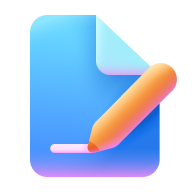
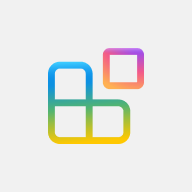
Fix conversion skill and pilot: assets, screenshot, descriptions (#160)
Skill (.github/skills/agent-instruction-to-da-sample/SKILL.md):
- Treat da-WritingCoach as a structure/config reference only; forbid copying
  its branded color.png/outline.png/screenshot/descriptions/instructions.
- Use the default Microsoft 365 Agents Toolkit icons (copied from a known
  default-icon sample), with md5 checks to reject WritingCoach-branded icons.
- Download the source agent-instruction's real screenshot from its
  sample.json thumbnails URL; only fall back to the pending-image placeholder
  when the source has none. Never reuse another sample's screenshot.
- Reuse the source sample.json as authoritative metadata (title, short and
  long descriptions, authors, thumbnails) and keep shortDescription identical
  across manifest, loc, sample.json and the README; document Teams length
  limits (name.short 30, description.short 80, description.full 4000).
- Add pre-PR checks for branded-asset leakage and description consistency.

Pilot (samples/da-socratic-tutor):
- Replace WritingCoach-branded icons with the toolkit default icons.
- Replace the placeholder screenshot with the source's real demo screenshot.
- Align short/long descriptions to the source and make them consistent across
  manifest, localization, sample.json and the README; drop the placeholder note.
- Update the root README row and samples.json shortDescription to match.

Claude-Session: https://claude.ai/code/session_01E5gjaJvJMdHGhX38PZJXKL

diff --git a/.github/skills/agent-instruction-to-da-sample/SKILL.md b/.github/skills/agent-instruction-to-da-sample/SKILL.md
@@ -7,7 +7,7 @@ description: Convert an agent instruction from the pnp/copilot-prompts repo into
 
 Convert an `agent-instruction` contribution from [pnp/copilot-prompts](https://github.com/pnp/copilot-prompts) (a paste-only system prompt) into a complete, compliant declarative agent sample (`da-*` folder) in this repo. Implements [issue #160](https://github.com/pnp/copilot-pro-dev-samples/issues/160).
 
-Use `samples/da-WritingCoach/` as the structural reference and `templates/da-declarative-agent/` as the formal template. One sample = one PR (see `CONTRIBUTING.md`).
+`samples/da-WritingCoach/` is the reference for **file structure and config only** — `manifest.json`, `declarativeAgent.json`, `teamsapp.yml`, `.vscode/`, `env/`, `.gitignore`. **Never copy its content-specific assets** (`color.png`, `outline.png`, screenshots, descriptions, instructions) — those are WritingCoach's brand, not generic. Every content artifact must come from the source agent-instruction or the rules below. One sample = one PR (see `CONTRIBUTING.md`).
 
 ## Inputs
 
@@ -16,96 +16,122 @@ Use `samples/da-WritingCoach/` as the structural reference and `templates/da-dec
 
 ## Workflow
 
-### 1. Resolve the source
+### 1. Resolve the source (download raw, do not summarize)
 
-Fetch BOTH of these raw files from the source folder (do not rely on a rendered/summarized view — always pull the raw bytes so nothing is truncated):
+Download these raw files to disk and read them directly. Do NOT use a small-model "fetch & summarize" tool — it truncates instructions and drops metadata.
 
-1. `https://raw.githubusercontent.com/pnp/copilot-prompts/main/samples/agent-instructions/<name>/readme.md`
-2. `https://raw.githubusercontent.com/pnp/copilot-prompts/main/samples/agent-instructions/<name>/assets/sample.json` (may not exist for every agent — if 404, skip and fall back to parsing the readme)
+```bash
+base=https://raw.githubusercontent.com/pnp/copilot-prompts/main/samples/agent-instructions/<name>
+curl -fsSL "$base/readme.md"          -o source-readme.md
+curl -fsSL "$base/assets/sample.json" -o source-sample.json   # may 404 — then fall back to the readme
+```
 
-> Do NOT use a small-model "fetch and summarize" tool to read the instruction or the authors. Download the raw file to disk (e.g. `curl -fsSL <url> -o source.md`) and read it directly, so the full text and exact metadata are preserved.
+The source `assets/sample.json` is **authoritative metadata** — reuse it rather than inventing values. It provides:
 
-Extract:
+- `title`
+- `shortDescription` (one concise line)
+- `longDescription` (array of fuller paragraphs)
+- `thumbnails[].url` — the source **screenshot** image (download it; see step 3 "Screenshot")
+- `authors` — copy **verbatim** (`gitHubAccount`, `name`, exact `pictureUrl` — e.g. `https://avatars.githubusercontent.com/syam1977`; never rewrite the URL)
+- `references`
 
-- **Title** (e.g. "Socratic Tutor Agent")
-- **Summary / description**
-- The **complete Instructions system prompt** — the ENTIRE content of the fenced code block under the `## Instructions` / `## Prompt` heading. See step 3 for the verbatim-copy rule.
-- **Conversation starters** (often absent — author them in step 4)
-- **Author(s)** — take the `authors` array **verbatim** from the source `assets/sample.json` when present (preserve each object's `gitHubAccount`, `name`, and the exact `pictureUrl` as written, e.g. `https://avatars.githubusercontent.com/syam1977` — do NOT rewrite or reconstruct the URL). Only if there is no source `sample.json`, parse names/handles from the readme `## Authors` section.
+From `readme.md` extract the **complete Instructions system prompt** — the entire fenced code block under `## Instructions` / `## Prompt`. See the verbatim rule in step 3.
 
-### 2. Scaffold the folder
+If there is no source `sample.json`, derive `title`/descriptions from the readme and authors from its `## Authors` section.
 
-Create `samples/da-<name>/` mirroring `samples/da-WritingCoach/`. Copy these files unchanged (they are identical across `da-` samples):
+### 2. Scaffold the folder (config files only)
+
+Create `samples/da-<name>/` and copy ONLY these from `samples/da-WritingCoach/` (they are generic config, identical across `da-` samples):
 
 - `.gitignore`
 - `.vscode/extensions.json`, `.vscode/launch.json`, `.vscode/settings.json`
 - `env/.env.dev`
-- `appPackage/color.png`, `appPackage/outline.png` (generic icons — flag as TODO for the author to brand)
 
-### 3. Map source fields → target files
+Do **not** copy `appPackage/color.png`, `appPackage/outline.png`, `assets/*.png`, `README.md`, `appPackage/instruction.txt`, or any localization values from WritingCoach. Those are handled below.
 
-| Source field | Target |
-|---|---|
-| Instruction prompt (full) | `appPackage/instruction.txt` (COMPLETE, verbatim — see rule below) |
-| Title | `manifest.json` `name.short`/`name.full`; `loc/manifest.en-US.json` `name.*` + `agentName`; README title; `sample.json` `title` |
-| Summary | `manifest.json` `description.short`/`full`; `loc` `description.*` + `agentDescription`; `sample.json` `shortDescription`/`longDescription` |
-| Conversation starters | `loc/manifest.en-US.json` `agentCSTitle1..6` / `agentCSText1..6` |
-| `authors` (from source `sample.json`) | README **Contributors**; `sample.json` `authors[]` (copied verbatim) |
+### 3. Create the content files
 
-**Verbatim instruction rule (critical):** `appPackage/instruction.txt` must contain the **entire** system prompt — every line of the fenced code block, from the first line to the last, including all headings, numbered lists, sub-bullets, example interactions, and edge-case sections. Do NOT summarize, paraphrase, truncate, drop sections, collapse whitespace, or stop early. The only permitted change is removing the surrounding ```` ``` ```` fence markers themselves. After writing the file, **verify completeness**: the first and last non-fence lines of `instruction.txt` must match the first and last lines inside the source code block, and the line count must equal the number of lines between the fences. If they differ, re-extract.
+**Verbatim instruction rule (critical):** `appPackage/instruction.txt` must contain the **entire** system prompt — every line of the fenced code block, first to last, including all headings, numbered lists, sub-bullets, example interactions, and edge-case sections. Do NOT summarize, paraphrase, truncate, drop sections, collapse whitespace, or stop early. The only permitted change is removing the surrounding ```` ``` ```` fence markers. After writing, **verify completeness**: the first and last lines of `instruction.txt` match the first and last lines inside the source block, and the line count equals the number of lines between the fences. If not, re-extract.
 
-Create these files (copy shapes from `da-WritingCoach`):
+**Description consistency rule (critical):** derive every description from the source's `shortDescription` + `longDescription` so they stay consistent (no mismatched/contradictory short vs long). Respect Teams manifest length limits — trim, don't invent a different topic:
 
-- **`appPackage/instruction.txt`** — the complete, verbatim prompt (see rule above).
-- **`appPackage/declarativeAgent.json`** — `$schema` + `version` `v1.2`; `name`/`description` as `[[agentName]]`/`[[agentDescription]]`; `"instructions": "$[file('instruction.txt')]"`; six tokenized `conversation_starters`; minimal `capabilities` (omit, or use `WebSearch` when no tenant data source is needed; use `OneDriveAndSharePoint` / `GraphConnectors` only if the instructions rely on tenant content).
-- **`appPackage/manifest.json`** — Teams `manifestVersion` `1.19`; `id` `${{TEAMS_APP_ID}}`; `name`/`description` filled; `localizationInfo.defaultLanguageFile` = `loc/manifest.en-US.json` (English-only to start; add `additionalLanguages` only if you ship more locale files); `copilotAgents.declarativeAgents` → `declarativeAgent.json`.
-- **`appPackage/loc/manifest.en-US.json`** — real values for every `[[token]]` via `localizationKeys`.
-- **`teamsapp.yml`** — copy from `da-WritingCoach`; set `additionalMetadata.sampleTag: pnp-copilot-pro-dev:da-<name>` and the app `name:`. **Do not commit a `projectId`** (it is generated on provision).
-- **`README.md`** — base on `templates/da-declarative-agent/README-template.md`; replace every `YOUR_AGENT_FOLDER` with `da-<name>` (including the tracking image). Fill Summary, Contributors, Version history (today's date), Prerequisites, Minimal path to awesome, Features. Tracking image (markdown form): `![](https://m365-visitor-stats.azurewebsites.net/copilot-pro-dev-samples/samples/da-<name>)`.
-- **`assets/sample.json`** — base on `templates/da-declarative-agent/assets/template-sample.json`; `name` = `pnp-copilot-pro-dev-da-<name>`; correct `url`/`downloadUrl`; `products` `["Microsoft 365 Copilot"]`; `metadata` PLATFORM/LANGUAGE + `API-PLUGIN`/`GRAPH-CONNECTOR` (`No` for instruction-only); today's `creationDateTime`/`updateDateTime`; a `thumbnails[0].url` pointing at the screenshot; and the **`authors` array copied verbatim from the source `assets/sample.json`** — keep every field intact, e.g.:
+| Field | Source | Max length |
+|---|---|---|
+| `name.short` / `name.full` | friendly agent name (drop the word "Agent") | 30 / 100 |
+| `description.short` (manifest + loc + `sample.json` `shortDescription`) | source `shortDescription` | 80 |
+| `description.full` (manifest + loc) and `sample.json` `longDescription` | source `longDescription` (join paragraphs) | 4000 |
+
+The same `shortDescription` text must appear in `manifest.json`, `loc/manifest.en-US.json`, the root README table, and `sample.json`. The `longDescription`/`description.full` and the README Summary must be the **same subject** as the short one.
+
+Files to create (copy only the JSON/yaml *shape* from `da-WritingCoach`):
+
+- **`appPackage/instruction.txt`** — the complete, verbatim prompt.
+- **`appPackage/declarativeAgent.json`** — `$schema` + `version` `v1.2`; `name`/`description` as `[[agentName]]`/`[[agentDescription]]`; `"instructions": "$[file('instruction.txt')]"`; tokenized `conversation_starters`; minimal `capabilities` (`WebSearch` when no tenant data is needed; `OneDriveAndSharePoint`/`GraphConnectors` only if the instructions rely on tenant content).
+- **`appPackage/manifest.json`** — Teams `manifestVersion` `1.19`; `id` `${{TEAMS_APP_ID}}`; `name`/`description` per the table above; `localizationInfo.defaultLanguageFile` = `loc/manifest.en-US.json` (English-only to start); `copilotAgents.declarativeAgents` → `declarativeAgent.json`.
+- **`appPackage/loc/manifest.en-US.json`** — real values for every `[[token]]` via `localizationKeys` (`agentName`, `agentDescription`, `agentCSTitle1..N`/`agentCSText1..N`).
+- **`teamsapp.yml`** — set `additionalMetadata.sampleTag: pnp-copilot-pro-dev:da-<name>` and the app `name:`. **No `projectId`** (generated on provision).
+- **`README.md`** — base on `templates/da-declarative-agent/README-template.md`; replace every `YOUR_AGENT_FOLDER` with `da-<name>` (including the tracking image). Fill Summary (from `longDescription`), Contributors, Version history (today's date), Prerequisites, Minimal path to awesome, Features. Tracking image: `![](https://m365-visitor-stats.azurewebsites.net/copilot-pro-dev-samples/samples/da-<name>)`.
+- **`assets/sample.json`** — from `templates/da-declarative-agent/assets/template-sample.json`; `name` = `pnp-copilot-pro-dev-da-<name>`; correct `url`/`downloadUrl`; `products` `["Microsoft 365 Copilot"]` (note: the source uses `["Copilot"]` — convert to the M365 value); `metadata` PLATFORM=`Node.js`, LANGUAGE=`TypeScript`, `API-PLUGIN`/`GRAPH-CONNECTOR`=`No` for instruction-only; today's dates; `shortDescription`/`longDescription` from source; `thumbnails[0].url` → the screenshot raw URL; `authors` copied **verbatim** from source plus the converter as an extra entry, e.g.:
   ```json
   "authors": [
-    {
-      "gitHubAccount": "syam1977",
-      "pictureUrl": "https://avatars.githubusercontent.com/syam1977",
-      "name": "Shinichi Yamada"
-    }
+    { "gitHubAccount": "syam1977", "pictureUrl": "https://avatars.githubusercontent.com/syam1977", "name": "Shinichi Yamada" }
   ]
   ```
-  Do not drop the author, change the `name`, or rewrite the `pictureUrl`. Append the converter as an additional entry only; never replace the original author.
-- **`assets/<name>.png`** — screenshot. If none exists, copy `templates/da-declarative-agent/assets/pending-image.png` and flag a TODO in the README (CONTRIBUTING requires a real 1920x1080 screenshot before submission).
+
+**Icons (do NOT reuse a branded sample's icons):** copy the **default Microsoft 365 Agents Toolkit icons** — `color.png` (md5 `22056b953eb3e8a2598790d3837a5df0`) and `outline.png` (md5 `fa8e16ac87439703613c7613157214bb`). A known-default source is `samples/da-resource-allocation/appPackage/`:
+
+```bash
+cp samples/da-resource-allocation/appPackage/color.png   samples/da-<name>/appPackage/color.png
+cp samples/da-resource-allocation/appPackage/outline.png samples/da-<name>/appPackage/outline.png
+```
+
+Never copy icons from `da-WritingCoach` or any sample with a custom logo. Optionally note in the README that the author may replace these with branded icons.
+
+**Screenshot:** download the source's own screenshot from the source `sample.json` `thumbnails[].url` (often `assets/demo.png`) into `samples/da-<name>/assets/<name>.png`, and point `sample.json` `thumbnails[0].url` + the README image at it:
+
+```bash
+curl -fsSL "<source thumbnail url>" -o samples/da-<name>/assets/<name>.png
+```
+
+Only if the source has **no** usable image (missing file or empty `url`) copy `templates/da-declarative-agent/assets/pending-image.png` as `assets/<name>.png` and add a README TODO to replace it with a 1920x1080 capture. Never use another sample's screenshot.
 
 ### 4. Handle missing fields
 
 - **No conversation starters in source:** author 4–6 derived from the instructions / example interactions.
-- **No icons / screenshot:** use the generic icons and the pending-image placeholder; flag both as TODO.
+- **No icons:** use the default toolkit icons above.
+- **No screenshot:** use the pending-image placeholder + README TODO.
 
 ### 5. Preserve attribution
 
-Credit the **original** author in both `README.md` Contributors and `sample.json` `authors`, sourced from the original `assets/sample.json` `authors` array (verbatim — keep `gitHubAccount`, `name`, and the exact `pictureUrl`). If the source has no `sample.json`, derive the author from the readme `## Authors` section instead. Note in the README that the sample was converted from `pnp/copilot-prompts`. This respects the CONTRIBUTING "rights to share" rule. Add the converter as an **additional** contributor — never overwrite or omit the original author.
-
-For the README **Contributors** list, render each original author as `* [<name>](https://github.com/<gitHubAccount>)`.
+Credit the **original** author in both `README.md` Contributors and `sample.json` `authors`, copied verbatim from the source `assets/sample.json` `authors` (or the readme `## Authors` if no sample.json). Note in the README that the sample was converted from `pnp/copilot-prompts`. Add the converter as an **additional** contributor — never overwrite or omit the original author. Render README contributors as `* [<name>](https://github.com/<gitHubAccount>)`.
 
 ## Checks (run before opening a PR)
 
 Reuse the `declarative-agent-sample-review` skill's checklist, plus:
 
-1. Folder name starts with `da-`, contains no periods.
-2. Files present: `appPackage/{manifest.json,declarativeAgent.json,instruction.txt,loc/manifest.en-US.json,color.png,outline.png}`, `assets/{sample.json,*.png}`, `README.md`, `teamsapp.yml`, `.gitignore`, `.vscode/`, `env/.env.dev`.
-3. All JSON parses; `declarativeAgent.json` `version` is `v1.2` and `$[file('instruction.txt')]` resolves to an existing file; every `[[token]]` in `declarativeAgent.json` has a matching `localizationKeys` entry.
+1. Folder name starts with `da-`, no periods.
+2. Files present: `appPackage/{manifest.json,declarativeAgent.json,instruction.txt,loc/manifest.en-US.json,color.png,outline.png}`, `assets/{sample.json,<name>.png}`, `README.md`, `teamsapp.yml`, `.gitignore`, `.vscode/`, `env/.env.dev`.
+3. All JSON parses; `declarativeAgent.json` `version` is `v1.2`; `$[file('instruction.txt')]` resolves; every `[[token]]` has a matching `localizationKeys` entry.
 4. `teamsapp.yml` has **no `projectId`**.
 5. README has Contributors with real names, a Version history with a real author, and the markdown tracking image at the end; no trailing `---`.
 6. `sample.json` `name` = `pnp-copilot-pro-dev-da-<name>`; `url`/`downloadUrl` consistent with the README.
-7. No `.zip` anywhere under `samples/` (the `no-zip-in-samples` workflow blocks them).
-8. **Instruction completeness:** `appPackage/instruction.txt` reproduces the full source prompt — first and last lines match the source code block and no sections are missing. It must NOT end mid-sentence or mid-section.
-9. **Author fidelity:** every author object from the source `assets/sample.json` is present in the new `sample.json` `authors` with `gitHubAccount`, `name`, and the original `pictureUrl` unchanged; the original author also appears in the README Contributors.
+7. No `.zip` anywhere under `samples/`.
+8. **Instruction completeness:** `instruction.txt` reproduces the full source prompt (first/last lines + line count match); never ends mid-section.
+9. **Author fidelity:** every source author appears in `sample.json` `authors` with `gitHubAccount`, `name`, and original `pictureUrl` unchanged, and in README Contributors.
+10. **No branded assets carried over:** `color.png` md5 = `22056b953eb3e8a2598790d3837a5df0` and `outline.png` md5 = `fa8e16ac87439703613c7613157214bb` (or intentional sample-specific icons), and **not** WritingCoach's (`a47041057032ae7048c99a9d6b7f9484` / `9be7968e4792088592556ee4c8ffc279`). The screenshot is the source's image or the pending-image placeholder — never another sample's screenshot.
+11. **Description consistency:** the same `shortDescription` appears in `manifest.json`, `loc`, `sample.json`, and the README table; `description.short` ≤ 80 chars; `longDescription`/README Summary share the same subject as the short description.
+
+```bash
+# quick asset check
+md5sum samples/da-<name>/appPackage/color.png samples/da-<name>/appPackage/outline.png
+```
 
 ## Catalog
 
-After adding the sample, regenerate the root `README.md` table and `.github/samples.json`:
+Regenerate the root `README.md` table and `.github/samples.json`:
 
 ```bash
 pwsh ./.github/Generate-SampleList.ps1
 ```
 
-Commit the regenerated catalog with the new sample folder. Open one PR per converted sample.
+If `pwsh` is unavailable, add the README table row and a matching `samples.json` entry by hand (one row: `| [<title>](./samples/da-<name>) | <shortDescription> | <author names> |`). Commit the catalog with the new sample folder. Open one PR per converted sample.

diff --git a/samples/da-socratic-tutor/README.md b/samples/da-socratic-tutor/README.md
@@ -8,9 +8,6 @@ The agent's behaviour is defined entirely through natural-language instructions 
 
 This sample was converted from the [`socratic-tutor` agent instruction](https://github.com/pnp/copilot-prompts/tree/main/samples/agent-instructions/socratic-tutor) in the [pnp/copilot-prompts](https://github.com/pnp/copilot-prompts) repository into a fully packaged declarative agent sample.
 
-> [!NOTE]
-> The image in the `assets` folder (`socratic-tutor.png`) is a placeholder. Replace it with a high-quality screenshot (1920x1080) of the agent in action before submitting upstream.
-
 ![Socratic Tutor](assets/socratic-tutor.png)
 
 ## Contributors

diff --git a/README.md b/README.md
@@ -78,7 +78,7 @@ This repository contains [Microsoft 365 Copilot](https://learn.microsoft.com/mic
 | [Sales Genie Declarative Agent](./samples/da-SalesGenie) | Sales Genie is a Declarative Agent designed to help sales executives get instant, actionable insights from their Salesforce CRM, Microsoft 365, and the web — all via natural language. Whether you're preparing for an upcoming customer meeting, reviewing your opportunity pipeline, or logging call notes into Salesforce, Sales Genie acts as a smart assistant that streamlines your daily sales activities. It showcases complex workflows directly using instructions. | Sébastien Levert, Akhil Sai Valluri |
 | [SharePoint Data Manager](./samples/da-sharepoint-data-manager) | A declarative agent that helps users manage and organize SharePoint and OneDrive content with document search, organization guidance, and access to official Microsoft documentation via MCP | Kateryna Turuntseva |
 | [SharePoint Agents Finder declarative agent](./samples/da-sp-agents-finder) | SharePoint Agents Finder uses the Microsoft Graph API as a Copilot plugin in a declarative agent, leveraging the Microsoft Graph Search API /search/query endpoint to retrieve information about SharePoint Agents and event any file in Microsoft 365. | Mohammad Amer |
-| [Socratic Tutor Declarative Agent for Microsoft 365 Copilot](./samples/da-socratic-tutor) | A declarative agent that teaches by asking questions, using the Socratic method to guide learners to discover knowledge. | Jayanth T, lovyjain |
+| [Socratic Tutor Declarative Agent for Microsoft 365 Copilot](./samples/da-socratic-tutor) | A teaching agent that uses Socratic questioning to guide learning. | Jayanth T, lovyjain |
 | [Tasks Agent using TypeSpec for Microsoft 365 Copilot that connects to the Microsoft Graph APIs](./samples/da-typespec-todo) | This sample demonstrates how to build a declarative agent for Microsoft 365 Copilot using TypeSpec for Microsoft 365 Copilot that connects to the Tasks endpoints of the Microsoft Graph API through an API plugin. | Sébastien Levert |
 | [Tech Support agent using TypeSpec for Microsoft 365 Copilot](./samples/da-typespec-tech-support) | This sample demonstrates how to build a declarative agent for Microsoft 365 Copilot using TypeSpec for Microsoft 365 Copilot that allows you ground responses in WebSearch, SharePoint and Copilot connectors | Sébastien Levert |
 | [TechPulse - Custom Engine Agent for Real-Time Technology News (JS)](./samples/cea-techpulse-js) | An intelligent tech news companion powered by Microsoft 365 Agents SDK and Model Context Protocol (MCP) | Ajay Jadhav |